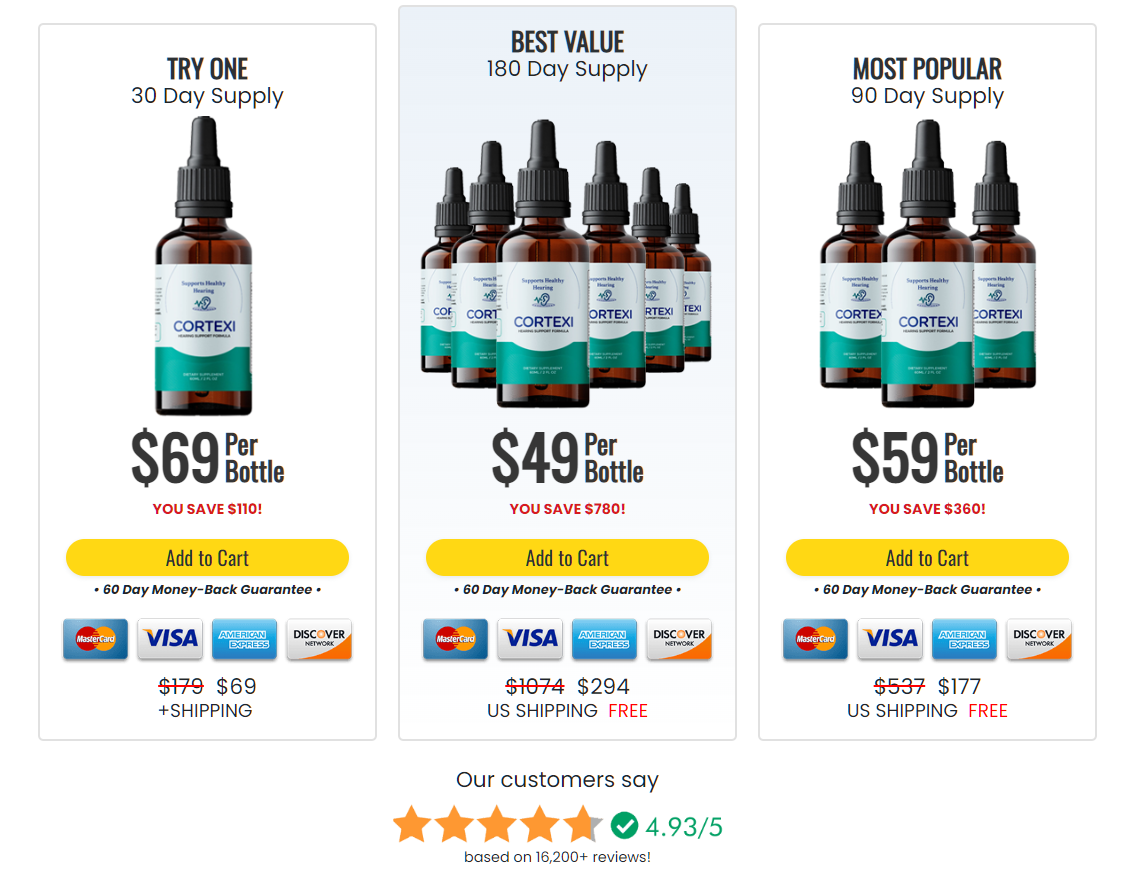
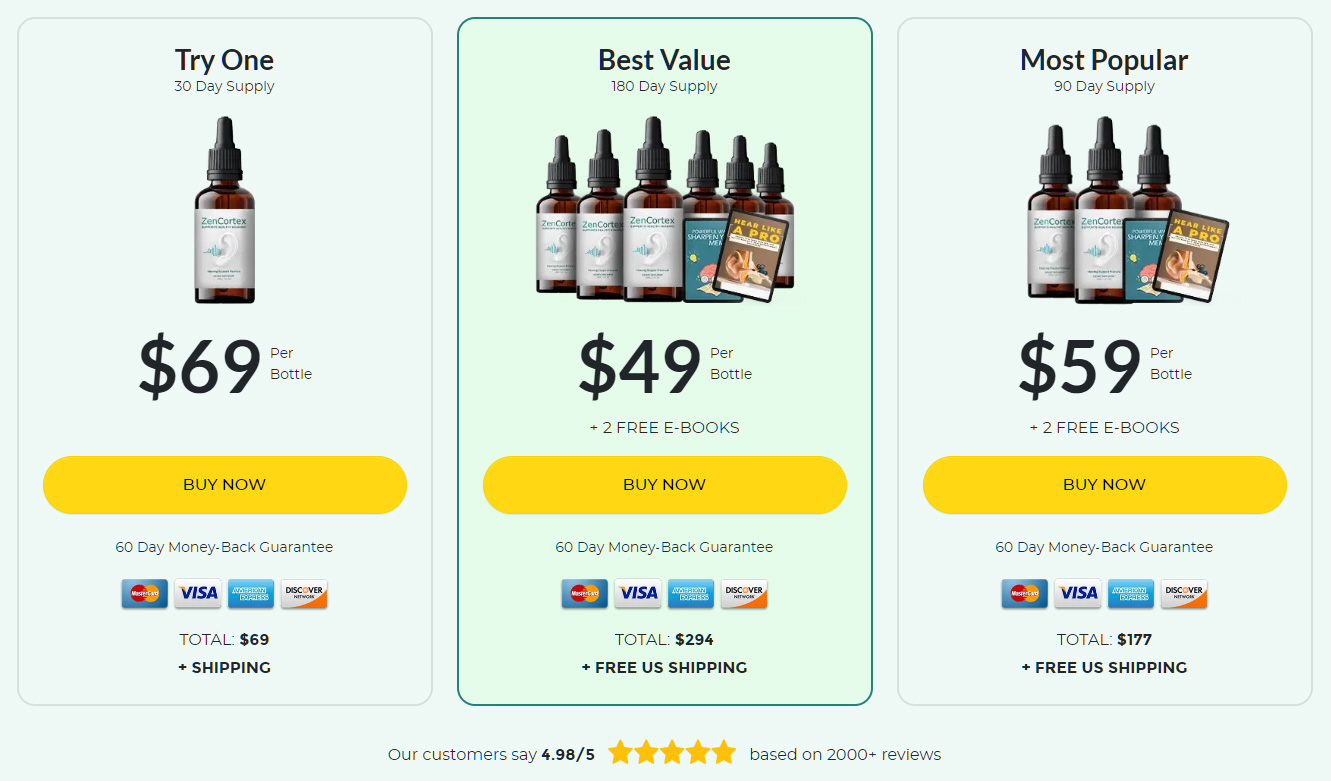
ajuste no cordexi

diff --git a/cortexi/index.html b/cortexi/index.html
@@ -81,7 +81,7 @@
             </div>
             <div class="col-12 col-md">
                 <div class="text-wrapper">
-                    <h1 class="mbr-section-title mbr-fonts-style mb-3 display-1"><strong>Cortexi</strong></h1>
+                    <h1 class="mbr-section-title mbr-fonts-style mb-3 display-1"><strong>Cortexi (ZenCortex)</strong></h1>
 					<h2>Hearing, Tinnitus, Brain</h2><h2>
                     <p class="mbr-text mbr-fonts-style display-7">
                         <br>If you are someone who is concerned about hearing damage, or have already experienced symptoms such as mental fog or memory loss, you may be wondering what steps you can take to protect your ears. Fortunately, there is a solution available in the form of the Cortexi formula. This new and improved formula is designed to shield your ears from damage using research-backed, all-natural ingredients that are combined in precise ratios to support healthy hearing.
